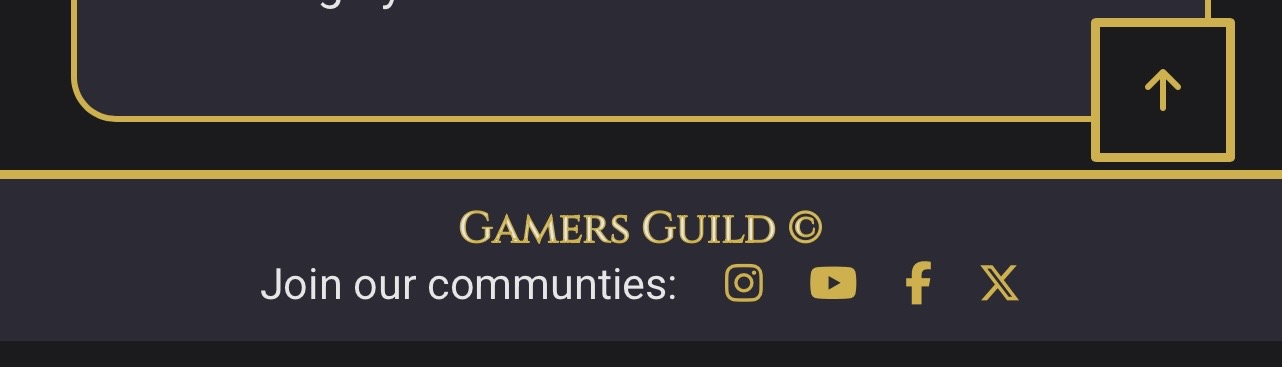
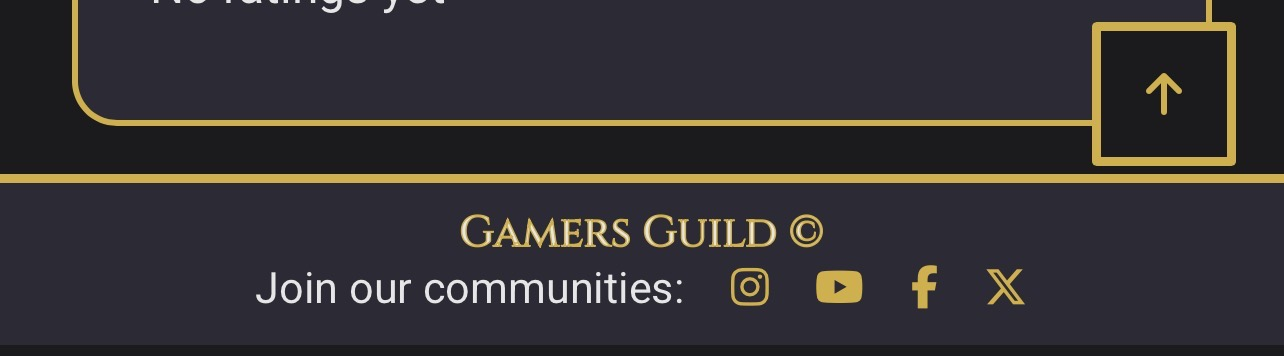
Update admin review tools

diff --git a/static/css/base.css b/static/css/base.css
@@ -255,7 +255,11 @@ h4 {
 
 .shop-page-title,
 .home-page-title {
-  padding: 1rem 2rem;
+  padding:0 2rem;
+}
+
+.about-page-title {
+  margin-bottom: 0.5rem;
 }
 
 .search-bar {
@@ -595,6 +599,11 @@ input[type="range"].slider::-webkit-slider-thumb {
 
 #deleteConfirm {
   color: var(--primary-highlight);
+}
+
+.admin-review-tools {
+  display: flex;
+  gap: 1rem;
 }
 
 /* Product Page */
@@ -1102,6 +1111,14 @@ select option[value=""] {
     flex-wrap: wrap;
     justify-items: center;
     justify-content: flex-end;
+  }
+
+    .sort-filter-container-shop {
+    margin: 0.5rem 0.5rem 0 0.5rem;
+    display: flex;
+    flex-wrap: wrap;
+    justify-items: center;
+    justify-content: space-between;
   }
 
   .sort-dropdown {

diff --git a/home/templates/home/boardgame_detail.html b/home/templates/home/boardgame_detail.html
@@ -123,17 +123,17 @@
                       <button class="btn btn-edit" data-review-id="{{ review.id }}">Edit</button>
                       <button class="btn btn-delete" data-review-id="{{ review.id }}">Delete</button>
                     {% endif %}
+                    {% if not review.is_approved %}<p class="text-warning mb-1">Pending approval</p>{% endif %}
                     {% if user.is_staff %}
                       <div class="admin-review-tools">
-                        {% if not review.is_approved %}<p class="text-warning mb-1">Pending approval</p>{% endif %}
                         <form method="post" action="{% url 'approve_review' review.id %}">
                           {% csrf_token %}
                           <button class="btn btn-sm">Approve</button>
                         </form>
-                        <form method="post" action="{% url 'unapprove_review' review.id %}">
-                          {% csrf_token %}
-                          <button class="btn btn-sm btn-decline">Decline</button>
-                        </form>
+                        <button class="btn btn-sm btn-delete"
+                                data-review-id="{{ review.id }}">
+                            Delete
+                        </button>
                       </div>
                     {% endif %}
                   </div>

diff --git a/about/templates/about/about.html b/about/templates/about/about.html
@@ -10,13 +10,14 @@
             <p>
                 Gamers Guild is a community-driven site for discovering and
                 reviewing board games, and shopping the latest boardgames accessories and addons.
-                <br>
-                <br>
-                We're always happy to hear from members of our community. If you have any suggestions or feedback for us, please contact us using the form below.
             </p>
+
         </div>
         <div class="contact-form-section">
             <h2>Contact Us</h2>
+            <p>
+            We're always happy to hear from members of our community. If you have any suggestions or feedback for us, please contact us using the form below.
+            </p>
             <div class="row">
                 <div class="col-12 col-lg-4">
                     <form method="POST">

diff --git a/shop/templates/shop/shop.html b/shop/templates/shop/shop.html
@@ -23,7 +23,7 @@
     </div>
   </section>
   <section class="shop-container">
-    <div class="sort-filter-container">
+    <div class="sort-filter-container-shop">
       <button class="btn filters-btn d-none d-md-inline-flex d-lg-none"
               type="button"
               id="openFiltersBtn">

diff --git a/home/views.py b/home/views.py
@@ -170,7 +170,7 @@ def delete_review(request, slug, review_id):
     boardgame = get_object_or_404(Boardgame, slug=slug)
     review = get_object_or_404(Review, id=review_id, boardgame=boardgame)
 
-    if review.user != request.user:
+    if review.user != request.user and not request.user.is_staff:
         messages.warning(request, "You cannot delete this review.")
         return redirect('boardgame_detail', slug=slug)
 
@@ -229,18 +229,6 @@ def approve_review(request, review_id):
 
     review = get_object_or_404(Review, id=review_id)
     review.is_approved = True
-    review.save()
-
-    return redirect(request.META.get('HTTP_REFERER'))
-
-
-@login_required
-def unapprove_review(request, review_id):
-    if not request.user.is_staff:
-        return redirect('home')
-
-    review = get_object_or_404(Review, id=review_id)
-    review.is_approved = False
     review.save()
 
     return redirect(request.META.get('HTTP_REFERER'))

diff --git a/home/urls.py b/home/urls.py
@@ -10,5 +10,4 @@ urlpatterns = [
     path("<slug:slug>/", views.boardgame_detail, name="boardgame_detail"),
     path("<slug:slug>/delete_review/<int:review_id>/", views.delete_review, name="delete_review"),
     path("review/<int:review_id>/approve/", views.approve_review, name="approve_review"),
-    path("review/<int:review_id>/unapprove/", views.unapprove_review, name="unapprove_review"),
 ]